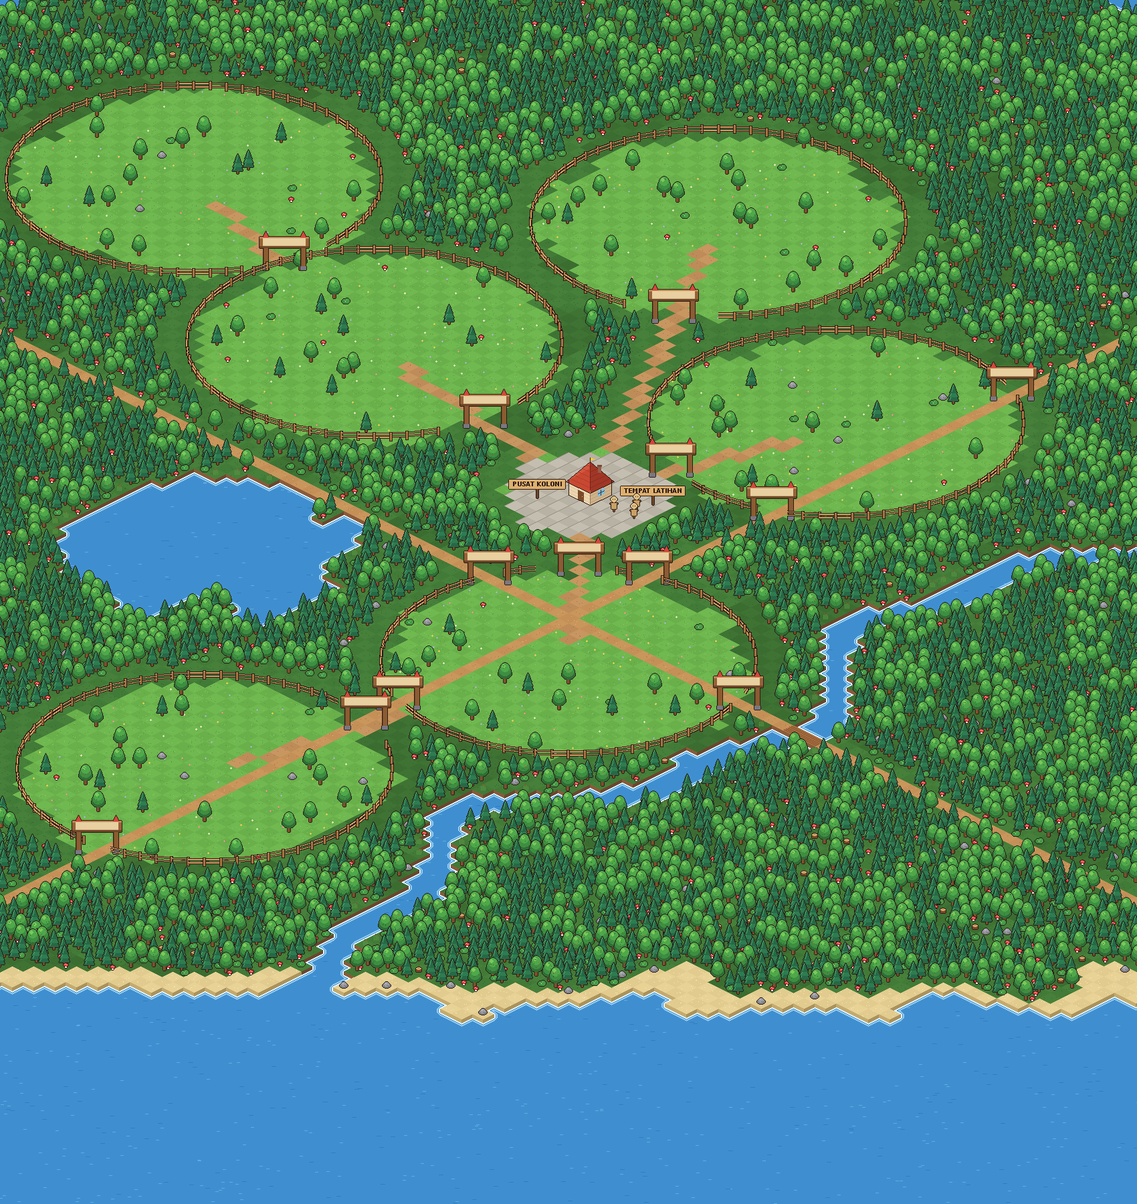
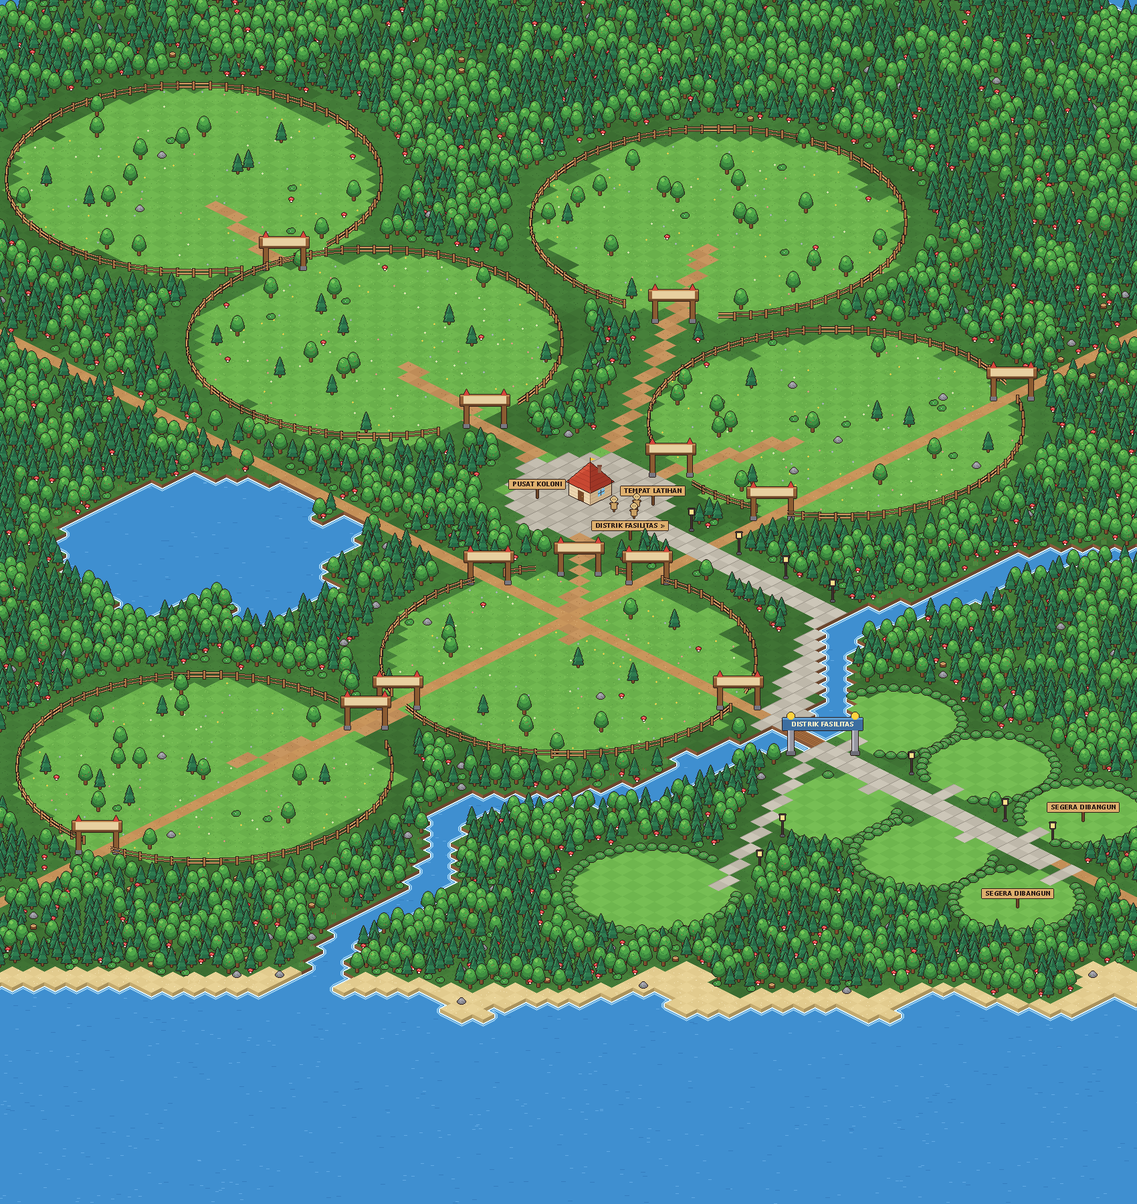
Denah v7: Distrik Fasilitas tertata di seberang sungai (kavling berpagar tanaman, jalan batu dari Pusat Koloni, lampu jalan, gapura). Tereuma, Oase, Klinik, Pasar & Lapangan pindah ke kavling; 2 kavling 'Segera Dibangun'. Rumah warga tidak berubah.
Claude-Session: https://claude.ai/code/session_016JCUGjeN7C4fWr6wizx4Nt

diff --git a/lib/fasilitas.js b/lib/fasilitas.js
@@ -7,19 +7,19 @@ const T = (s) => Date.parse(s);
 /** siap: asetnya sudah digambar & dipasang di peta (diubah saat fasilitas dibangun). */
 export const JADWAL = [
   { id: 'tereuma', nama: 'Tereuma', sub: 'Tempat Reuni Bersama', pengusul: ['vanzoka.7'], buka: T('2026-11-03T14:30:00+07:00'), siap: true,
-    x: 620, y: 752, ax: 84, ay: 72, img: 'tereuma', kunci: /tereuma|reuni|kumpul|alun|plaza|gazebo/i,
+    x: 1381, y: 1297, ax: 84, ay: 72, img: 'tereuma', kunci: /tereuma|reuni|kumpul|alun|plaza|gazebo/i,
     ket: 'Tempat berkumpul warga. Hewan yang sedang ngobrol di Obrolan Warga datang dan berkumpul di sini.' },
   { id: 'oase', nama: 'Oase Pokomen', sub: 'Kolam minum & tempat makan', pengusul: ['itsme_amm012', 'cireng_michi', 'hana_hass11'], buka: T('2026-11-04T12:00:00+07:00'), siap: true,
-    x: 868, y: 592, ax: 76, ay: 54, img: 'oase', ket: 'Kolam minum, palung air & tempat makan. Siang hari hewan yang haus dan lapar datang bergantian.',
+    x: 1479, y: 1158, ax: 76, ay: 54, img: 'oase', ket: 'Kolam minum, palung air & tempat makan. Siang hari hewan yang haus dan lapar datang bergantian.',
     petunjuk: 'Tempatnya basah dan segar. Hewan datang ke sana saat haus dan lapar.', kunci: /oase|kolam|danau|telaga|air|minum|makan|mandi|sumur|mata air/i },
   { id: 'taman', nama: 'Taman Milzura', sub: 'Taman bunga Wilayah 4', pengusul: ['diqamal', 'doey_ramadhann'], buka: T('2026-11-05T12:00:00+07:00'), siap: true,
     x: 1120, y: 334, ax: 75, ay: 54, img: 'taman', ket: 'Taman bunga warna-warni dengan air mancur di Wilayah 4 (Milzura), hadiah untuk Ketua Exepalm.',
     petunjuk: 'Penuh warna dan wangi. Hadiah untuk Ketua Wilayah 4 yang baru.', kunci: /taman|bunga|kebun bunga|milzura/i },
   { id: 'klinik', nama: 'Klinik Pokomen', sub: 'Tempat hewan pulih', pengusul: ['riana_qahh'], buka: T('2026-11-06T12:00:00+07:00'), siap: true,
-    x: 1060, y: 800, ax: 66, ay: 58, img: 'klinik', ket: 'Klinik dekat Pusat Koloni. Hewan yang kalah duel datang ke sini untuk beristirahat sampai pulih.',
+    x: 1339, y: 1093, ax: 66, ay: 58, img: 'klinik', ket: 'Klinik di Distrik Fasilitas, tepat setelah gapura. Hewan yang kalah duel datang ke sini untuk beristirahat sampai pulih.',
     petunjuk: 'Tempat hewan yang kalah duel beristirahat sampai pulih.', kunci: /klinik|rumah sakit|\brs\b|dokter|puskesmas|obat|perawat|apotek|pulih|pemulihan|sembuh|penyembuhan|rawat|perawatan|medis|kesehatan|healing|heal|hospital|ugd|istirahat|center|centre|pokecenter/i },
   { id: 'lapangan', nama: 'Lapangan Pokomen', sub: 'Lapangan bola & lomba', pengusul: ['017sikram', 'qey_farrozz', 'catur_1415', '26april2003.exe', 'liamners'], buka: T('2026-11-07T12:00:00+07:00'), siap: true,
-    x: 1450, y: 1110, ax: 88, ay: 62, img: 'lapangan', ket: 'Lapangan sepak bola di seberang sungai, dekat jalan timur. Tempat warga bermain bola.',
+    x: 975, y: 1339, ax: 88, ay: 62, img: 'lapangan', ket: 'Lapangan sepak bola di ujung barat Distrik Fasilitas, seberang sungai. Tempat warga bermain bola.',
     petunjuk: 'Ada yang bulat, ditendang ke sana kemari, dan ada gawangnya.', kunci: /lapang|stadion|bola|sepak|futsal|olahraga|gawang|soccer|football|tendang/i },
   // 6 Nov: Ladang (penghasil Biji Kopi) dibatalkan Admin; jadwal berikutnya maju satu hari
   { id: 'dekor', nama: 'Dekor Wilayah', sub: 'Hias wilayahmu bersama warganya', pengusul: ['hammi_ciko', 'xavier09970', 'hana_hass11', 'rahardianalif'], buka: T('2026-11-08T12:00:00+07:00'), siap: true,
@@ -29,7 +29,7 @@ export const JADWAL = [
     ket: 'Lentera, pot bunga, jamur, kupu-kupu dan kincir kertas kini tersebar di seluruh jalan dunia.',
     petunjuk: 'Kecil-kecil, tersebar di mana-mana, bikin dunia tidak polos lagi.', kunci: /hiasan|dekorasi|lampion|ornamen|lampu|detail|pernak|bunga|kembang|dekor jalan|tersebar/i },
   { id: 'pasar', nama: 'Pasar Pokomen', sub: 'Jual-beli outfit antar warga', pengusul: ['diqamal'], buka: T('2026-11-11T12:00:00+07:00'), siap: true,
-    x: 1200, y: 875, ax: 78, ay: 60, img: 'pasar', ket: 'Lapak jual-beli di tenggara Pusat Koloni. Warga menjual outfit dari lemarinya ke warga lain dengan harga pilihan sendiri.',
+    x: 1241, y: 1221, ax: 78, ay: 60, img: 'pasar', ket: 'Lapak jual-beli di Distrik Fasilitas. Warga menjual outfit dari lemarinya ke warga lain dengan harga pilihan sendiri.',
     petunjuk: 'Tempatnya ramai, ada yang menawar, ada yang menawarkan.', kunci: /pasar|market|jual|beli|dagang|lapak|bazar|barter|tukar|transaksi|niaga/i },
   { id: 'bermain', nama: 'Taman Bermain', sub: 'Ayunan, perosotan & jungkat-jungkit', pengusul: ['aalganteng1242'], buka: T('2026-11-12T12:00:00+07:00'), siap: false,
     petunjuk: 'Ada yang naik, ada yang turun, dan semuanya tertawa.', kunci: /taman\s*bermain|playground|ayun|perosot|jungkat|seluncur|wahana|bermain|mainan/i },

diff --git a/public/app.js b/public/app.js
@@ -1504,7 +1504,7 @@
   };
 
   // bump when the map changes so browsers do not keep the old cached image
-  const WORLD_VER = '2026-10-30-bertahap';
+  const WORLD_VER = '2026-11-11-distrik';
   // ---------------------------------------------------------------- boot
   window.addEventListener('resize', resize);
   // ~30 fps animation loop (tick keeps the old 420 ms rhythm for lights and fireflies)

diff --git a/public/index.html b/public/index.html
@@ -259,7 +259,7 @@
 <script src="card.js?v=font1"></script>
 <script src="pokoboll.js?v=1"></script>
 <script src="profil3d.js?v=3"></script>
-<script src="app.js?v=p3d1"></script>
+<script src="app.js?v=distrik1"></script>
 <script src="obrolan.js?v=dekor1"></script>
 <script type="module" src="arena-game.js?v=2"></script>
 <script src="toko.js?v=pasar2"></script>

diff --git a/tools/world_export_v7.py b/tools/world_export_v7.py
@@ -1,0 +1,319 @@
+# Web world v7 (11 Nov): Distrik Fasilitas di tenggara (seberang sungai) — kavling rapi, jalan batu, lampu, gapura.
+# Web world v6 (8 Nov): + Wilayah 6 (barat laut, tersambung ke Wilayah 3). Rumah Wilayah 1-5 diambil apa adanya dari world-5.json.
+# Web world v5 (30 Okt): + Wilayah 4 (utara) & Wilayah 5 (barat daya), papan gapura kosong (nama ditulis website).
+# Web world v4 (27 Okt malam): wilayah 1-3 sama besar (r=12 seperti Wilayah 3), berpagar + gerbang + jalan setapak,
+# Balai Warga pindah ke Pusat Koloni.
+# Web world v2: one open clearing (no plots) where citizens roam, surrounded by dense wilderness.
+# Open areas are listed in OPEN_BLOBS so new land (e.g. the east clearing on day 4) can be added later.
+import json, math, random, sys
+from PIL import Image, ImageDraw
+import world_gen as Wd, assets as A
+
+OUT = sys.argv[1] if len(sys.argv) > 1 else '/home/claude/dunia-pokomen/public/assets'
+# (centre_i, centre_j, radius_i, radius_j) in tile units
+R_WIL = 12.0
+def tile_of(x, y): return ((x - 850) / 16 + (y - 804) / 8) / 2, ((y - 804) / 8 - (x - 850) / 16) / 2
+ALL_CENTRES = {1: tile_of(850, 995), 2: tile_of(1250, 640), 3: tile_of(560, 520), 4: (-22.0, -36.0), 5: (5.0, 39.0), 6: tile_of(290, 275)}
+# varian peta: hanya wilayah 1..N_BUKA yang sudah dibuka (lahannya digambar); sisanya tetap hutan
+import os
+N_BUKA = int(os.environ.get('N_BUKA', '6'))
+CENTRES = {n: c for n, c in ALL_CENTRES.items() if n <= N_BUKA}
+REGB = {n: [(c[0], c[1], R_WIL, R_WIL)] for n, c in CENTRES.items()}
+PKC = tile_of(880, 740)
+PKB = (PKC[0], PKC[1], 5.5, 5.5)
+OPEN_BLOBS = [b for v in REGB.values() for b in v] + [PKB]
+from PIL import ImageFont
+FONTB = ImageFont.truetype('/usr/share/fonts/truetype/dejavu/DejaVuSans-Bold.ttf', 9)
+def in_blobs(i, j, blobs, wob=True):
+    w = (Wd.n_flower(i * 1.7, j * 1.7) - .5) * .35 if wob else 0
+    return any(((i + .5 - ci) / ri) ** 2 + ((j + .5 - cj) / rj) ** 2 < 1 + w for ci, cj, ri, rj in blobs)
+def region_of(i, j):
+    for n, bl in REGB.items():
+        if in_blobs(i, j, bl): return n
+    return 0
+# dirt path tiles linking Wilayah 1 -> Pusat Koloni -> Wilayah 3
+PATH = set(); GATES = {}
+def line_tiles(a, b):
+    n = int(max(abs(b[0] - a[0]), abs(b[1] - a[1])) * 2) + 1
+    for k in range(n + 1):
+        t = k / n; PATH.add((math.floor(a[0] + (b[0] - a[0]) * t), math.floor(a[1] + (b[1] - a[1]) * t)))
+TARGET = {5: CENTRES[1], 6: CENTRES[3]}  # Wilayah 5 tersambung ke Wilayah 1, sisanya ke Pusat Koloni
+for n, c in CENTRES.items():
+    tg = TARGET.get(n, PKC); stop = R_WIL + 1.2 if n in TARGET else 5
+    dx, dy = tg[0] - c[0], tg[1] - c[1]; L = math.hypot(dx, dy); ux, uy = dx / L, dy / L
+    g = (c[0] + ux * (R_WIL + .4), c[1] + uy * (R_WIL + .4)); GATES[n] = g
+    line_tiles((c[0] + ux * 3, c[1] + uy * 3), (tg[0] - ux * stop, tg[1] - uy * stop))
+HT = (round(PKC[0]) - 1, round(PKC[1]) - 1)
+HOUSE_TILES = {(HT[0] + a, HT[1] + b) for a in (0, 1) for b in (0, 1)}
+
+# ---------------- Distrik Fasilitas (v7) ----------------
+KAVLING = {  # id: (x, y, r_tile) di koordinat dunia
+    'klinik': (1339, 1079, 4.2), 'oase': (1479, 1148, 4.2), 'bermain': (1619, 1217, 4.0),
+    'pasar': (1241, 1209, 4.2), 'tereuma': (1381, 1277, 4.4), 'kosong1': (1521, 1346, 4.0),
+    'lapangan': (975, 1330, 5.4),
+}
+PADS = {k: (*tile_of(x, y), r, r) for k, (x, y, r) in KAVLING.items()}
+STONE = set()
+def stone_line(a, b, w=1):
+    n = int(max(abs(b[0] - a[0]), abs(b[1] - a[1])) * 2) + 1; out = []
+    for k in range(n + 1):
+        t = k / n; ci, cj = a[0] + (b[0] - a[0]) * t, a[1] + (b[1] - a[1]) * t
+        for di in range(-w + 1, w):
+            for dj in range(-w + 1, w):
+                STONE.add((math.floor(ci + di * .5), math.floor(cj + dj * .5)))
+        out.append((ci, cj))
+    return out
+ROUTE = []
+_pk = (PKC[0] + 5.0, PKC[1]); _mid = (20.0, PKC[1]); _br = (27.4, 7.5)
+ROUTE += stone_line(_pk, _mid, 2) + stone_line(_mid, _br, 2)
+# jalan batu di dalam distrik: lanjutan jembatan ke timur (jalan lama dilapisi batu)
+_end = (52.0, 7.5)
+ROUTE += stone_line((31.0, 7.5), _end, 2)
+# cabang ke barat (Lapangan) menyusuri tepi selatan sungai
+_lp = PADS['lapangan']
+ROUTE += stone_line((31.0, 8.5), (_lp[0] + 3.2, _lp[1] - 3.2), 1)
+# jalan masuk kecil ke tiap kavling
+for k, (ci, cj, r, _) in PADS.items():
+    if k == 'lapangan': continue
+    tj = 7.5; stone_line((ci, cj + (r - .6 if cj < tj else -(r - .6))), (ci, tj), 1)
+def in_pad(i, j): return any(((i + .5 - ci) / r) ** 2 + ((j + .5 - cj) / r) ** 2 < 1 for ci, cj, r, _ in PADS.values())
+GAPURA_D = Wd.iso(31.3, 7.5)
+
+def is_open(i, j):
+    w = (Wd.n_flower(i * 1.7, j * 1.7) - .5) * .35
+    return any(((i + .5 - ci) / ri) ** 2 + ((j + .5 - cj) / rj) ** 2 < 1 + w for ci, cj, ri, rj in OPEN_BLOBS)
+
+# ground: build with every tile "clear" so nothing is baked; we place our own scenery
+tiles = Wd.tile_list()
+Wd.CLEAR |= set(tiles)
+bases, _dyn = Wd.build()
+cv = bases[0].convert('RGBA')
+d = ImageDraw.Draw(cv)
+rnd = random.Random(21)
+K = {t: Wd.kind(*t) for t in tiles}
+
+# darker forest floor outside the clearing, fresh meadow inside
+for (i, j) in sorted(tiles, key=lambda t: t[0] + t[1]):
+    if K[(i, j)] != 'grass': continue
+    x, y = Wd.iso(i, j)
+    dia = [(x, y), (x + 16, y + 8), (x, y + 16), (x - 16, y + 8)]
+    if is_open(i, j):
+        col = (112, 184, 80) if (i + j) % 2 else (105, 176, 75)
+        d.polygon(dia, fill=col)
+        for _ in range(5):
+            px, py = x + rnd.randint(-10, 10), y + rnd.randint(4, 12)
+            if abs(px - x) / 16 + abs(py - y - 8) / 8 < .8: d.point((px, py), fill=rnd.choice([(86, 150, 62), (140, 204, 100)]))
+        if rnd.random() < .22:
+            px, py = x + rnd.randint(-7, 7), y + rnd.randint(5, 11)
+            c = rnd.choice([(255, 255, 255), (255, 214, 80), (240, 130, 170), (150, 170, 255)])
+            d.point([(px - 1, py), (px + 1, py), (px, py - 1), (px, py + 1)], fill=c); d.point((px, py), fill=(255, 200, 60))
+    else:
+        f = Wd.n_forest(i, j)
+        col = (70, 128, 58) if (i + j) % 2 else (66, 122, 55)
+        if f > .6: col = tuple(int(c * .9) for c in col)
+        d.polygon(dia, fill=col)
+        for _ in range(3):
+            px, py = x + rnd.randint(-9, 9), y + rnd.randint(5, 11)
+            d.point((px, py), fill=(52, 98, 44))
+
+# dirt path + Pusat Koloni plaza
+for (i, j) in sorted(tiles, key=lambda t: t[0] + t[1]):
+    x, y = Wd.iso(i, j)
+    dia = [(x, y), (x + 16, y + 8), (x, y + 16), (x - 16, y + 8)]
+    if K[(i, j)] == 'road' and (i, j) in STONE:
+        d.polygon(dia, fill=(204, 198, 184) if (i + j) % 2 else (190, 184, 170)); d.line([(x - 16, y + 8), (x, y)], fill=(156, 150, 138)); continue
+    if K[(i, j)] != 'grass': continue
+    if in_pad(i, j) and (i, j) not in STONE:
+        d.polygon(dia, fill=(118, 190, 84) if (i + j) % 2 else (110, 182, 78)); continue
+    if (i, j) in STONE:
+        d.polygon(dia, fill=(204, 198, 184) if (i + j) % 2 else (190, 184, 170)); d.line([(x - 16, y + 8), (x, y)], fill=(156, 150, 138)); d.line([(x, y + 16), (x + 16, y + 8)], fill=(170, 164, 150)); continue
+    if in_blobs(i, j, [PKB], False):
+        d.polygon(dia, fill=(196, 190, 176) if (i + j) % 2 else (184, 178, 164)); d.line([(x - 16, y + 8), (x, y)], fill=(150, 144, 132))
+    elif (i, j) in PATH:
+        d.polygon(dia, fill=(200, 150, 96) if (i + j) % 2 else (190, 140, 88))
+        for _ in range(3): d.point((x + rnd.randint(-8, 8), y + rnd.randint(5, 11)), fill=(160, 112, 66))
+# scenery
+items = []
+occupied = set()
+for (i, j) in tiles:
+    k = K[(i, j)]
+    if k not in ('grass', 'sand') or (i, j) in HOUSE_TILES or (i, j) in PATH or in_blobs(i, j, [PKB], False): continue
+    if in_pad(i, j) or (i, j) in STONE: continue
+    if any((i + a, j + b) in STONE for a in (-1, 0, 1) for b in (-1, 0, 1)): continue
+    if any(((i + .5 - ci) / (r + 1.3)) ** 2 + ((j + .5 - cj) / (r + 1.3)) ** 2 < 1 for ci, cj, r, _ in PADS.values()): continue
+    # keep a mown strip outside each fence and along paths so fences & gates stay visible
+    if any(math.hypot(i + .5 - c[0], j + .5 - c[1]) < R_WIL + 2.3 for c in CENTRES.values()) and not is_open(i, j): continue
+    if math.hypot(i + .5 - PKC[0], j + .5 - PKC[1]) < 7.5 and not is_open(i, j): continue
+    if any((i + a, j + b) in PATH for a in (-1, 0, 1) for b in (-1, 0, 1)): continue
+    x, y = Wd.iso(i + .5, j + .5)
+    near_water = any(K.get((i + a, j + b), Wd.kind(i + a, j + b)) == 'water' for a, b in ((1, 0), (-1, 0), (0, 1), (0, -1)))
+    near_road = any(K.get((i + a, j + b), Wd.kind(i + a, j + b)) in ('road', 'bridge') for a, b in ((1, 0), (-1, 0), (0, 1), (0, -1)))
+    if is_open(i, j):
+        # a few shade trees, never next to the hall or the road
+        if near_road or any((i + a, j + b) in HOUSE_TILES for a in (-1, 0, 1) for b in (-1, 0, 1)): continue
+        r = rnd.random()
+        if r < .045: spr = A.tree_round(rnd.randint(0, 99)) if rnd.random() < .7 else A.tree_pine(0)
+        elif r < .07: spr = rnd.choice([A.bush(), A.rock(i), A.mushroom()])
+        else: continue
+        occupied.add((i, j))
+        items.append((x + rnd.randint(-3, 3), y + rnd.randint(-1, 1), spr))
+        continue
+    if k == 'sand':
+        if rnd.random() < .06: items.append((x, y, A.rock(i + j)))
+        continue
+    if near_water and rnd.random() < .35:
+        items.append((x, y, A.reeds())); continue
+    if near_road and rnd.random() < .5:
+        if rnd.random() < .3: items.append((x, y, A.bush()))
+        continue
+    r = rnd.random()
+    if r < .86:
+        f = Wd.n_forest2(i, j)
+        spr = A.tree_pine(0) if (f > .55 or rnd.random() < .3) else A.tree_round(rnd.randint(0, 99))
+        items.append((x + rnd.randint(-4, 4), y + rnd.randint(-2, 2), spr))
+        if rnd.random() < .35:  # undergrowth
+            items.append((x + rnd.randint(-8, 8), y + rnd.randint(2, 5), rnd.choice([A.bush(), A.mushroom()])))
+    elif r < .93:
+        items.append((x, y, rnd.choice([A.bush(), A.stump(), A.mushroom(), A.rock(i)])))
+
+def board(text):
+    tw = int(ImageDraw.Draw(Image.new('L', (1, 1))).textlength(text, font=FONTB)) + 10
+    im = Image.new('RGBA', (tw, 28), (0, 0, 0, 0)); g = ImageDraw.Draw(im); g.fontmode = '1'
+    g.rectangle((tw // 2 - 1, 12, tw // 2 + 1, 27), fill=(110, 70, 40)); g.rectangle((0, 0, tw - 1, 13), fill=(222, 176, 110))
+    g.text((5, 1), text, font=FONTB, fill=(43, 27, 23)); return A.outline(im)
+def dummy():
+    im = Image.new('RGBA', (14, 24), (0, 0, 0, 0)); g = ImageDraw.Draw(im)
+    g.rectangle((6, 9, 7, 23), fill=(120, 80, 44)); g.rectangle((1, 11, 12, 12), fill=(120, 80, 44))
+    g.ellipse((2, 1, 11, 9), fill=(220, 190, 130)); g.rectangle((3, 11, 10, 19), fill=(200, 160, 100)); g.point([(5, 5), (8, 5)], fill=(43, 27, 23)); return A.outline(im)
+def fence_seg(p, q, col=(170, 116, 66)):
+    """one fence piece: post at p, two rails to q (image anchored at its bottom)"""
+    x0, y0 = min(p[0], q[0]) - 3, min(p[1], q[1]) - 15; x1, y1 = max(p[0], q[0]) + 3, max(p[1], q[1]) + 2
+    im = Image.new('RGBA', (int(x1 - x0) + 1, int(y1 - y0) + 1), (0, 0, 0, 0)); g = ImageDraw.Draw(im)
+    P = (p[0] - x0, p[1] - y0); Q = (q[0] - x0, q[1] - y0)
+    for off in (10, 5): g.line((P[0], P[1] - off, Q[0], Q[1] - off), fill=(43, 27, 23), width=4); g.line((P[0], P[1] - off, Q[0], Q[1] - off), fill=(214, 160, 100), width=2)
+    g.rectangle((P[0] - 2, P[1] - 13, P[0] + 2, P[1]), fill=(43, 27, 23)); g.rectangle((P[0] - 1, P[1] - 12, P[0] + 1, P[1] - 1), fill=col)
+    g.point((P[0], P[1] - 12), fill=(230, 180, 120))
+    return im, x0, y1
+PAPAN = []
+def gerbang(text):
+    im = Image.new('RGBA', (74, 58), (0, 0, 0, 0)); g = ImageDraw.Draw(im); g.fontmode = '1'
+    for x in (6, 62): g.rectangle((x, 14, x + 6, 57), fill=(140, 92, 50)); g.line((x, 14, x, 57), fill=(110, 70, 40)); g.rectangle((x - 1, 52, x + 7, 57), fill=(120, 120, 130))
+    g.rectangle((0, 8, 73, 22), fill=(150, 98, 56)); g.rectangle((0, 8, 73, 10), fill=(190, 134, 80)); g.rectangle((0, 22, 73, 24), fill=(110, 70, 40))
+    g.rectangle((5, 10, 68, 21), fill=(232, 208, 160)); g.line((5, 21, 68, 21), fill=(200, 172, 124))  # papan nama kosong
+    for x in (9, 65): g.polygon([(x - 4, 8), (x, 0), (x + 4, 8)], fill=(214, 70, 60))
+    return A.outline(im)
+FENCE = {}
+for n, c in CENTRES.items():
+    gx, gy = GATES[n]; pts = []; N = 72
+    gang = math.atan2(gy - c[1], gx - c[0])
+    for q in range(N):
+        a_ = q / N * 2 * math.pi
+        if abs((a_ - gang + math.pi) % (2 * math.pi) - math.pi) < .2: pts.append(None); continue  # gate opening
+        ti, tj = c[0] + (R_WIL + .4) * math.cos(a_), c[1] + (R_WIL + .4) * math.sin(a_)
+        k_ = K.get((math.floor(ti), math.floor(tj)), Wd.kind(math.floor(ti), math.floor(tj)))
+        pts.append(('road' if k_ in ('road', 'bridge') else None) if k_ in ('water', 'road', 'bridge') else Wd.iso(ti, tj))
+    # extra gates where an old road crosses the fence
+    q = 0
+    while q < N:
+        if pts[q] == 'road':
+            e = q
+            while e + 1 < N and pts[e + 1] == 'road': e += 1
+            mid = (q + e) / 2 / N * 2 * math.pi
+            gi, gj = c[0] + (R_WIL + .4) * math.cos(mid), c[1] + (R_WIL + .4) * math.sin(mid)
+            gxp2, gyp2 = Wd.iso(gi, gj); items.append((gxp2, gyp2 + 6, gerbang(f'WILAYAH {n}'))); PAPAN.append([round(gxp2), round(gyp2 - 34.5, 1), n])
+            q = e + 1
+        else: q += 1
+    pts = [p if p != 'road' else None for p in pts]
+    FENCE[str(n)] = [list(p) if p else None for p in pts]
+    for q in range(N):
+        p, r_ = pts[q], pts[(q + 1) % N]
+        if p and r_:
+            im, x0, y1 = fence_seg(p, r_); items.append((x0 + im.width // 2, y1 - 2, im))
+    gxp, gyp = Wd.iso(gx, gy); items.append((gxp, gyp + 6, gerbang(f'WILAYAH {n}'))); PAPAN.append([round(gxp), round(gyp - 34.5, 1), n])
+def dummy():
+    im = Image.new('RGBA', (14, 24), (0, 0, 0, 0)); g = ImageDraw.Draw(im)
+    g.rectangle((6, 9, 7, 23), fill=(120, 80, 44)); g.rectangle((1, 11, 12, 12), fill=(120, 80, 44))
+    g.ellipse((2, 1, 11, 9), fill=(220, 190, 130)); g.rectangle((3, 11, 10, 19), fill=(200, 160, 100)); g.point([(5, 5), (8, 5)], fill=(43, 27, 23)); return A.outline(im)
+for di, dj in ((3.0, -1.5), (3.8, -0.5), (2.2, -0.2)):
+    x, y = Wd.iso(PKC[0] + di, PKC[1] + dj); items.append((x, y + 8, dummy()))
+x, y = Wd.iso(PKC[0] - 2.6, PKC[1] + 2.2); items.append((x, y + 8, board('PUSAT KOLONI')))
+x, y = Wd.iso(PKC[0] + 3.4, PKC[1] - 2.6); items.append((x, y + 8, board('TEMPAT LATIHAN')))
+def lampu():
+    im = Image.new('RGBA', (12, 34), (0, 0, 0, 0)); g = ImageDraw.Draw(im)
+    g.rectangle((5, 8, 6, 33), fill=(60, 50, 50)); g.rectangle((3, 31, 8, 33), fill=(90, 90, 100))
+    g.rectangle((2, 1, 9, 9), fill=(60, 50, 50)); g.rectangle((3, 2, 8, 8), fill=(255, 226, 140)); g.rectangle((1, 0, 10, 1), fill=(60, 50, 50))
+    return A.outline(im)
+def pagar_hidup():
+    im = Image.new('RGBA', (16, 10), (0, 0, 0, 0)); g = ImageDraw.Draw(im)
+    g.ellipse((0, 1, 15, 9), fill=(58, 128, 60)); g.ellipse((2, 0, 13, 6), fill=(84, 160, 78)); g.point([(5, 2), (10, 3)], fill=(240, 130, 170))
+    return A.outline(im)
+def papan_kavling(text):
+    return board(text)
+def gapura_distrik():
+    im = Image.new('RGBA', (120, 64), (0, 0, 0, 0)); g = ImageDraw.Draw(im); g.fontmode = '1'
+    for x in (8, 104): g.rectangle((x, 16, x + 8, 63), fill=(150, 150, 160)); g.rectangle((x, 16, x + 2, 63), fill=(190, 190, 200)); g.rectangle((x - 2, 58, x + 10, 63), fill=(110, 110, 120))
+    g.rectangle((0, 8, 119, 26), fill=(60, 110, 160)); g.rectangle((0, 8, 119, 10), fill=(100, 160, 210))
+    t = 'DISTRIK FASILITAS'; tw_ = g.textlength(t, font=FONTB); g.text(((120 - tw_) / 2, 12), t, font=FONTB, fill=(255, 240, 200))
+    for x in (12, 108): g.ellipse((x - 5, 0, x + 5, 10), fill=(255, 210, 63))
+    return A.outline(im)
+# pagar tanaman di tepi kavling (kecuali jalan masuk)
+for k, (ci, cj, r, _) in PADS.items():
+    N_ = int(r * 9)
+    for q in range(N_):
+        a_ = q / N_ * 2 * math.pi
+        ti, tj = ci + (r + .25) * math.cos(a_), cj + (r + .25) * math.sin(a_)
+        if (math.floor(ti), math.floor(tj)) in STONE or any((math.floor(ti) + a, math.floor(tj) + b) in STONE for a in (-1, 0, 1) for b in (-1, 0, 1)): continue
+        if Wd.kind(math.floor(ti), math.floor(tj)) != 'grass': continue
+        x, y = Wd.iso(ti, tj); items.append((x, y + 4, pagar_hidup()))
+# lampu di sepanjang jalan batu
+for q, (ci, cj) in enumerate(ROUTE):
+    if q % 9 != 4: continue
+    for side in (-1.6,):
+        ti, tj = ci - side * .7, cj + side
+        if Wd.kind(math.floor(ti), math.floor(tj)) != 'grass' or (math.floor(ti), math.floor(tj)) in STONE or in_pad(math.floor(ti), math.floor(tj)): continue
+        x, y = Wd.iso(ti, tj); items.append((x, y + 2, lampu()))
+gx_, gy_ = GAPURA_D; items.append((gx_, gy_ + 14, gapura_distrik()))
+x, y = Wd.iso(PKC[0] + 5.6, PKC[1] + 1.7); items.append((x, y + 8, board('DISTRIK FASILITAS >')))
+for k in ('bermain', 'kosong1'):
+    ci, cj, r, _ = PADS[k]; x, y = Wd.iso(ci, cj); items.append((x, y + 10, board('SEGERA DIBANGUN')))
+hs, ha = Wd.house_sprite()
+hx, hy = Wd.iso(*HT)
+items.append((hx, hy + 16, None))
+for x, y, im in sorted(items, key=lambda t: t[1]):
+    if im is None: cv.alpha_composite(hs, (int(hx - ha[0]), int(hy - ha[1]))); continue
+    cv.alpha_composite(im, (int(x - im.width // 2), int(y - im.height + 2)))
+cv.convert('RGB').save(f'{OUT}/world-{N_BUKA}.png', optimize=True)
+
+# walkable tiles inside the clearing (centres), away from trees, the hall and water
+walk = []
+for (i, j) in tiles:
+    if not is_open(i, j) or K[(i, j)] not in ('grass', 'road') or in_blobs(i, j, [PKB], False): continue
+    if (i, j) in occupied or (3 <= i <= 7 and 3 <= j <= 7): continue  # keep the hall and its porch clear
+    if any(Wd.kind(i + a, j + b) == 'water' for a in (-1, 0, 1) for b in (-1, 0, 1)): continue
+    x, y = Wd.iso(i + .5, j + .5)
+    if 40 < x < Wd.W - 40 and 60 < y < Wd.H - 40: walk.append([round(x), round(y)])
+# homes: 50 per wilayah, spread by farthest-point order inside each region; overflow goes to Wilayah 1..3
+def homes_in(cands, start_xy, n):
+    rest = cands[:]; out = []
+    if not rest: return out
+    start = min(rest, key=lambda p: dist(p, start_xy)); out.append(start); rest.remove(start)
+    best = {tuple(p): dist(p, start) for p in rest}
+    while rest and len(out) < n:
+        p = max(rest, key=lambda q: best[tuple(q)]); out.append(p); rest.remove(p)
+        for q in rest: best[tuple(q)] = min(best[tuple(q)], dist(q, p))
+    return out
+def dist(p, q): return math.hypot(p[0] - q[0], (p[1] - q[1]) * 2)
+RTILE = {}
+for (i, j) in tiles:
+    x, y = Wd.iso(i + .5, j + .5)
+    if [round(x), round(y)] in walk: RTILE[(round(x), round(y))] = region_of(i, j)
+by_reg = {n: [p for p in walk if RTILE.get(tuple(p)) == n] for n in REGB}
+centre = {n: Wd.iso(*c) for n, c in CENTRES.items()}
+# rumah Wilayah 1-5 tetap persis seperti world-5 (warga tidak pindah rumah); Wilayah 6 = 50 rumah baru
+# v7: semua 300 rumah persis seperti world-6 (tidak ada warga yang pindah)
+spots = json.load(open(os.environ.get('SPOTS_SRC', f'{OUT}/world-6.json')))['spots']
+homes = spots
+REGION_POS = {str(n): list(centre[n]) for n in REGB}
+json.dump({'w': Wd.W, 'h': Wd.H, 'center': list(Wd.iso(*PKC)), 'walk': walk, 'spots': homes, 'open': OPEN_BLOBS, 'wilayah': REGION_POS, 'pk': list(Wd.iso(*PKC)),
+           'lights': [[hx + 12, hy + 10, 26], [hx - 14, hy + 16, 18]], 'balai': [hx, hy], 'pagar': FENCE, 'gerbang': {str(n): list(Wd.iso(*g)) for n, g in GATES.items()}, 'papan': PAPAN, 'ukuranWilayah': 50, 'nBuka': N_BUKA, 'kavling': {k: [x, y] for k, (x, y, r) in KAVLING.items()}, 'gapuraDistrik': [round(GAPURA_D[0]), round(GAPURA_D[1])]}, open(f'{OUT}/world-{N_BUKA}.json', 'w'))
+print('walk tiles', len(walk), 'items', len(items))
